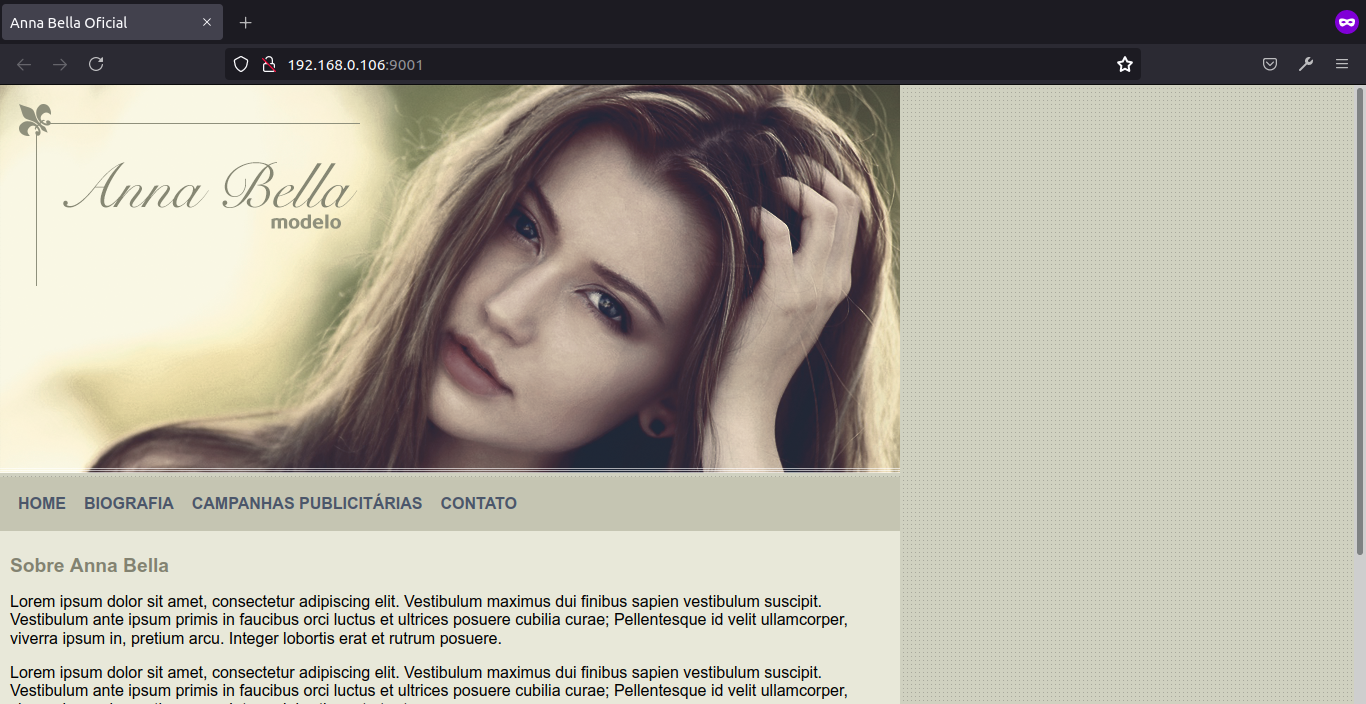
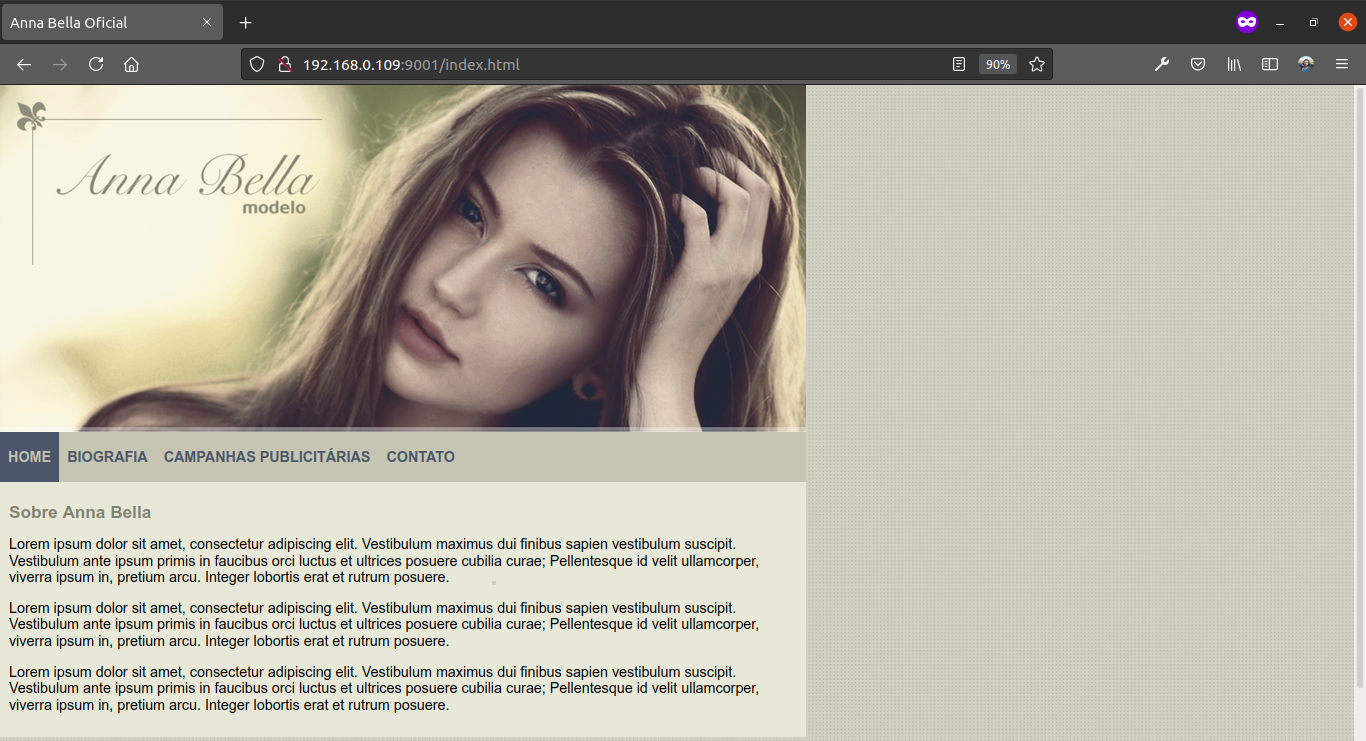
Change the color of the active link
Add an "active" class to the current link to let the user know what page
he/she is on.

diff --git a/app/assets/styles/modules/_primary-nav.css b/app/assets/styles/modules/_primary-nav.css
@@ -1,5 +1,4 @@
 .primary-nav {
-
   &--colored {
     background-color: $mainColor;
   }
@@ -12,26 +11,29 @@
 
   li {
     list-style-type: none;
-    padding: .25rem 0;
   }
 
   a {
+    padding: 1.15rem 0.5625rem;
     text-align: center;
     color: $linkColor;
     text-decoration: none;
     font-weight: bold;
-    padding-left: 1.125rem;
     display: block;
   }
 
   @mixin atSmall {
     li {
       float: left;
-      padding: 1.125rem 0;
     }
 
     a {
       text-align: left;
     }
+  }
+
+  .active {
+    color: $mainColor;
+    background-color: $linkColor;
   }
 }

diff --git a/app/campanhas-publicitarias.html b/app/campanhas-publicitarias.html
@@ -32,7 +32,7 @@
         <ul>
           <li><a href="index.html">HOME</a></li>
           <li><a href="biografia.html">BIOGRAFIA</a></li>
-          <li><a href="">CAMPANHAS PUBLICITÁRIAS</a></li>
+          <li><a class="active" href="">CAMPANHAS PUBLICITÁRIAS</a></li>
           <li><a href="contato.html">CONTATO</a></li>
         </ul>
       </nav>

diff --git a/app/biografia.html b/app/biografia.html
@@ -22,7 +22,7 @@
       <nav class="primary-nav primary-nav--colored">
         <ul>
           <li><a href="index.html">HOME</a></li>
-          <li><a href="">BIOGRAFIA</a></li>
+          <li><a class="active" href="">BIOGRAFIA</a></li>
           <li>
             <a href="campanhas-publicitarias.html">CAMPANHAS PUBLICITÁRIAS</a>
           </li>

diff --git a/app/index.html b/app/index.html
@@ -21,7 +21,7 @@
       />
       <nav class="primary-nav primary-nav--colored">
         <ul>
-          <li><a href="">HOME</a></li>
+          <li><a class="active" href="">HOME</a></li>
           <li><a href="biografia.html">BIOGRAFIA</a></li>
           <li>
             <a href="campanhas-publicitarias.html">CAMPANHAS PUBLICITÁRIAS</a>

diff --git a/app/contato.html b/app/contato.html
@@ -34,7 +34,7 @@
               >CAMPANHAS PUBLICITÁRIAS</a
             >
           </li>
-          <li><a class="menu__item" href="">CONTATO</a></li>
+          <li><a class="active" class="menu__item" href="">CONTATO</a></li>
         </ul>
       </nav>
       <section class="page-section">

diff --git a/README.md b/README.md
@@ -9,6 +9,7 @@
 - [Demo](#demo)
 - [Setup](#setup)
 - [Usage](#usage)
+- [To do](#to-do)
 - [Technical info](#technical-info)
 
   [Languages](#languages)
@@ -63,9 +64,8 @@ Once the dependencies are installed, you can run `npm run dev` to start the appl
 
 [//]: # "## Built with"
 
-## To-do
+## To do
 
-- Highlight the link in the header navigation that corresponds with the page that the visitor is currently in;
 - Make the site responsive;
 - Work in small details, like providing a favicon.ico.
 
